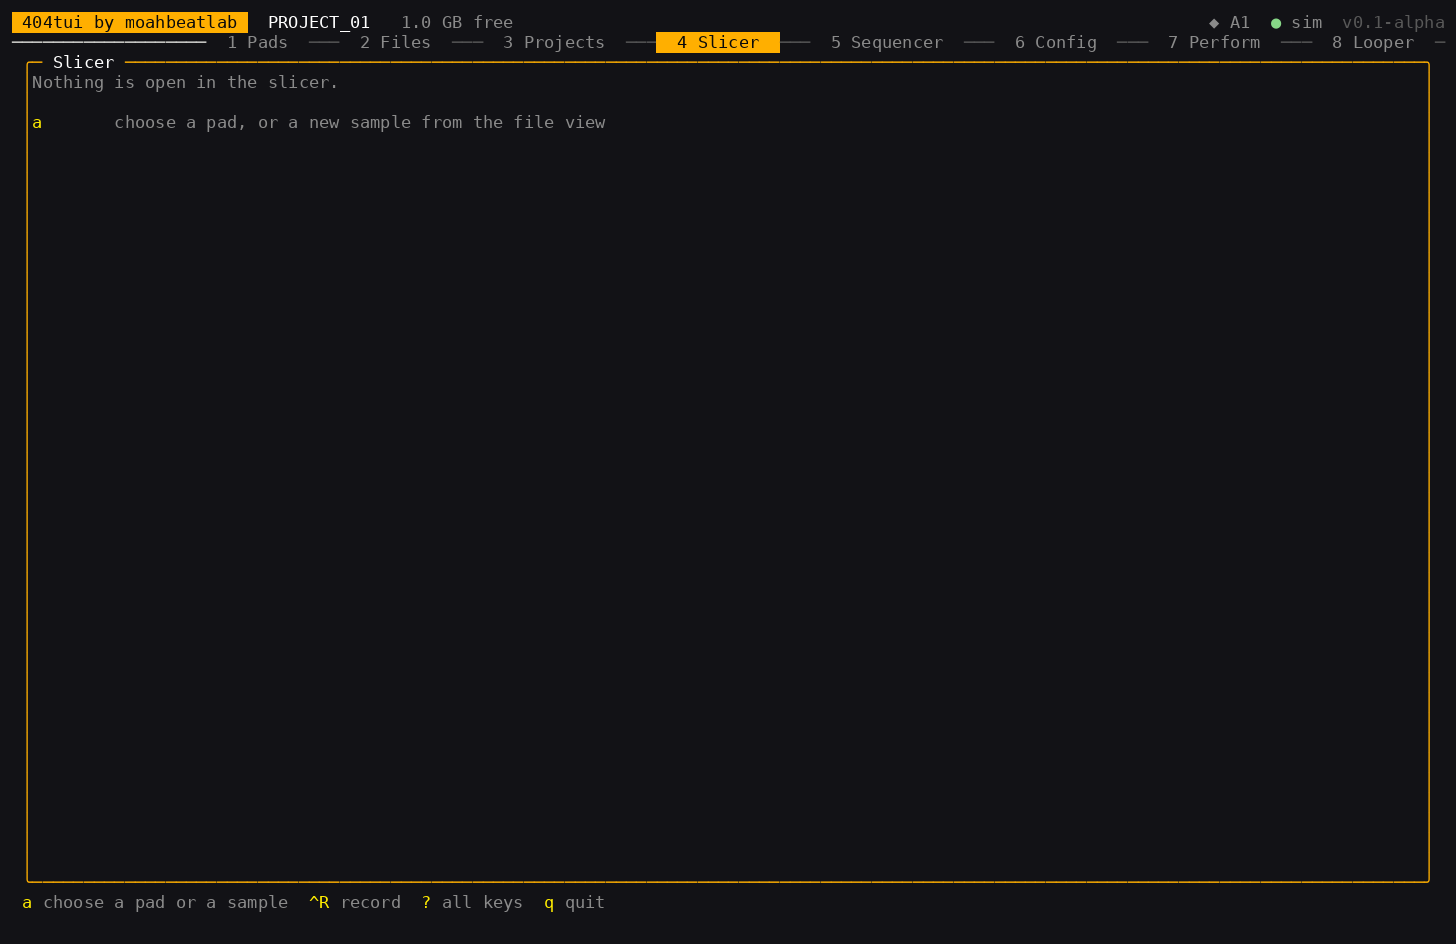
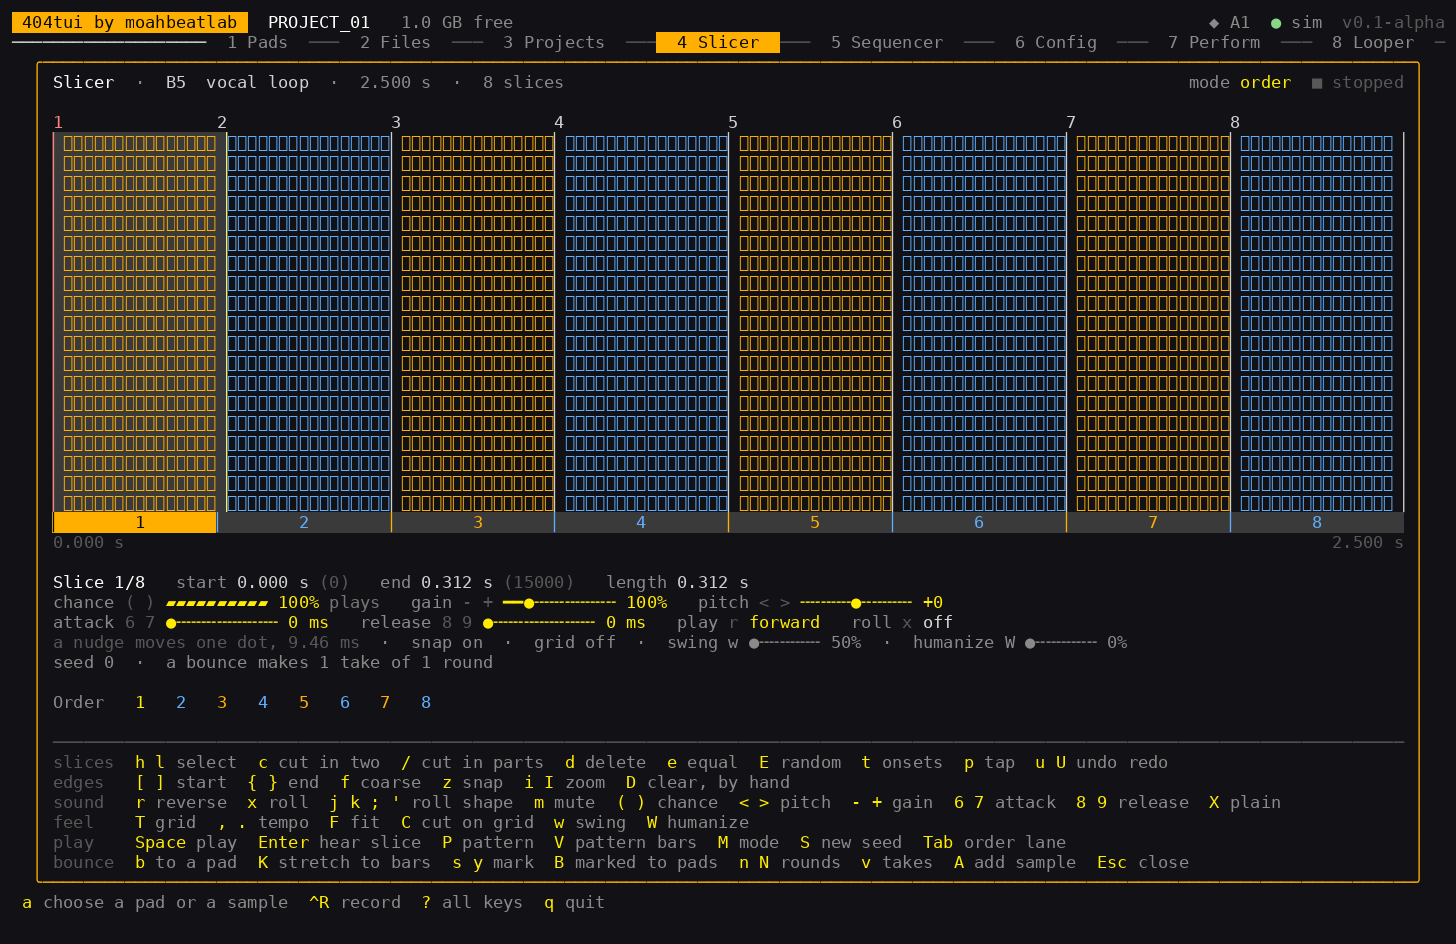
docs: show the Slicer and the Sequencer with something open
The first pass shot both against an empty tab, so the Slicer showed no waveform and no slices and the
Sequencer showed no pattern — the two views the pictures were meant to explain.

The simulator already carries what they need: a 2.5 s tone on B5 (`vocal loop`) and pattern B2
(`kick` / `snare` / `hat`, 120 BPM, 5/4). The shots now open those.

- slicer.png: the waveform with its slice boundaries, the slice in front and its controls, the order
  lane
- slicer-slices.png: the same sample after `e`, sixteen equal slices
- sequencer.png: pattern B2 open, three tracks on the step grid

img/README.md records the keys and the wait each view needs before the capture — the pattern chooser
loads asynchronously and a shot taken too early lands on the previous state.

diff --git a/docs/img/README.md b/docs/img/README.md
@@ -1,16 +1,17 @@
 # Screenshots
 
-One picture per tab, taken against the **simulated device** — no SP-404MKII needed. They show the
-layout and what is on the screen in a fresh project; a real unit fills in the samples, the clock and
-the levels.
+One picture per tab, taken against the **simulated device** — no SP-404MKII needed. The simulator
+carries a few real samples (a 2.5 s tone on B5) and a real pattern (B2, `kick` / `snare` / `hat`), so
+the Slicer and the Sequencer show their working state and not an empty one.
 
 | File | Tab | Page |
 | --- | --- | --- |
 | `pads.png` | `1` Pads | [pads.md](../pads.md) |
 | `files.png` | `2` Files | [files.md](../files.md) |
 | `projects.png` | `3` Projects | [files.md](../files.md) |
-| `slicer.png` | `4` Slicer | [slicer.md](../slicer.md) |
-| `sequencer.png` | `5` Sequencer | [sequencer.md](../sequencer.md) |
+| `slicer.png` | `4` Slicer (B5 `vocal loop`, 8 slices) | [slicer.md](../slicer.md) |
+| `slicer-slices.png` | `4` Slicer (after `e`, 16 slices) | [slicer.md](../slicer.md) |
+| `sequencer.png` | `5` Sequencer (pattern B2 open) | [sequencer.md](../sequencer.md) |
 | `config.png` | `6` Config | [config.md](../config.md) |
 | `perform.png` | `7` Perform | [perform.md](../perform.md) |
 | `looper.png` | `8` Looper | [looper.md](../looper.md) |
@@ -27,6 +28,13 @@ ended a work session before; `tmux -L shots kill-server` only touches the captur
     tmux -L shots capture-pane -e -t ui -p > pads.ansi
     tmux -L shots kill-server
 
-`capture-pane -e` keeps the escape sequences, so the colour survives; render the ANSI to PNG with
-`pads.png`'s 1456×944 as the reference size (140×45 cells). Nothing in this folder is generated by
-the build — the pictures are committed, so they need re-taking only when a view changes.
+The Slicer and the Sequencer need keys, not just the tab number, and the view settles a few seconds
+after each one — send the key, **wait, then capture**, or the shot lands on the previous state:
+
+    # Slicer on the sim's own sample: tab 4, `a`, then `p` (a pad), pick B5, Enter
+    # Sequencer on the sim's own pattern: tab 5, `a`, then Enter on slot 2 (B2)
+    #   the pattern chooser loads asynchronously; give it ~8 s before the shot
+
+`capture-pane -e` keeps the escape sequences, so the colour survives; render the ANSI to PNG at
+1456×944 (140×45 cells). Nothing in this folder is generated by the build — the pictures are
+committed, so they need re-taking only when a view changes.

diff --git a/docs/slicer.md b/docs/slicer.md
@@ -9,11 +9,19 @@ them searchable.
 **Open it:** `Z` on a pad (Pads) or on an audio file (Files), or tab `4` then `a`: `p` chooses a pad,
 `f` a new sample from the file view. `Esc` closes it; it stays as it was when you come back.
 
-![The Slicer on an empty tab: the view opens over the tab and says what `a` is for](img/slicer.png)
+![The Slicer on a pad's sample: the waveform with its slice boundaries, the slice in front and its controls, and the order lane](img/slicer.png)
 
-The screenshot is of the simulated device (`sp404 -sim`) with no sample loaded, so the waveform is
-empty and the tab only names the way in (`a`). Open a sample and the slices, the waveform and the key
-groups fill it.
+A pad's sample open in the slicer: the waveform across the top with the slice boundaries drawn on it
+and the slices numbered, the slice in front below it with its start, end and length, its chance, gain,
+pitch, attack and release, and the order lane the slices play in. The screenshot is of the simulated
+device's `vocal loop` (B5, 2.500 s) in `p` a pad — the same picture comes from any sample.
+
+![Sixteen slices after `e` (equal), the boundaries an even division of the sample](img/slicer-slices.png)
+
+`e` cuts the sample into equal slices — sixteen here — so the boundaries stop following the sound and
+divide the length evenly. `t` (onsets) cuts where the sound starts instead, `/` cuts in 2, 3, 4, 6 or
+8 parts, and `c` cuts one slice in two.
+
 
 ## Keys by group
 

diff --git a/docs/sequencer.md b/docs/sequencer.md
@@ -4,11 +4,12 @@ A bank has 16 pattern slots. They are a panel under the pads (Pads tab, `Tab` mo
 the highlighted pattern is previewed on the right) and are edited in the **Sequencer** tab: `5`, then
 `a` chooses the pattern to edit and `N` makes a new one. `Esc` leaves the pattern.
 
-![The Sequencer with no pattern open: `a` lists the slots of a bank](img/sequencer.png)
+![Pattern B2 open in the sequencer: three tracks on a step grid, with the header's BPM, time signature and step count, and the note under the cursor](img/sequencer.png)
 
-Screenshot against the simulated device (`sp404 -sim`), before a pattern is opened, so the editor is
-empty and the tab names the way in (`a`). The header still shows the project's tempo and the bank's
-patterns.
+A pattern open in the editor: a row per pad that plays in it (`kick`, `snare`, `hat` here), the notes
+drawn on the step grid with the bar numbers over it, and under the grid the note in front — its
+position, velocity and length. The screenshot is of the simulated device's pattern **B2**
+(120.00 BPM, 5/4, 1 bar, 3 pads), which the unit already holds, opened with tab `5` then `a`.
 
 ## Opening, making and moving patterns
 
